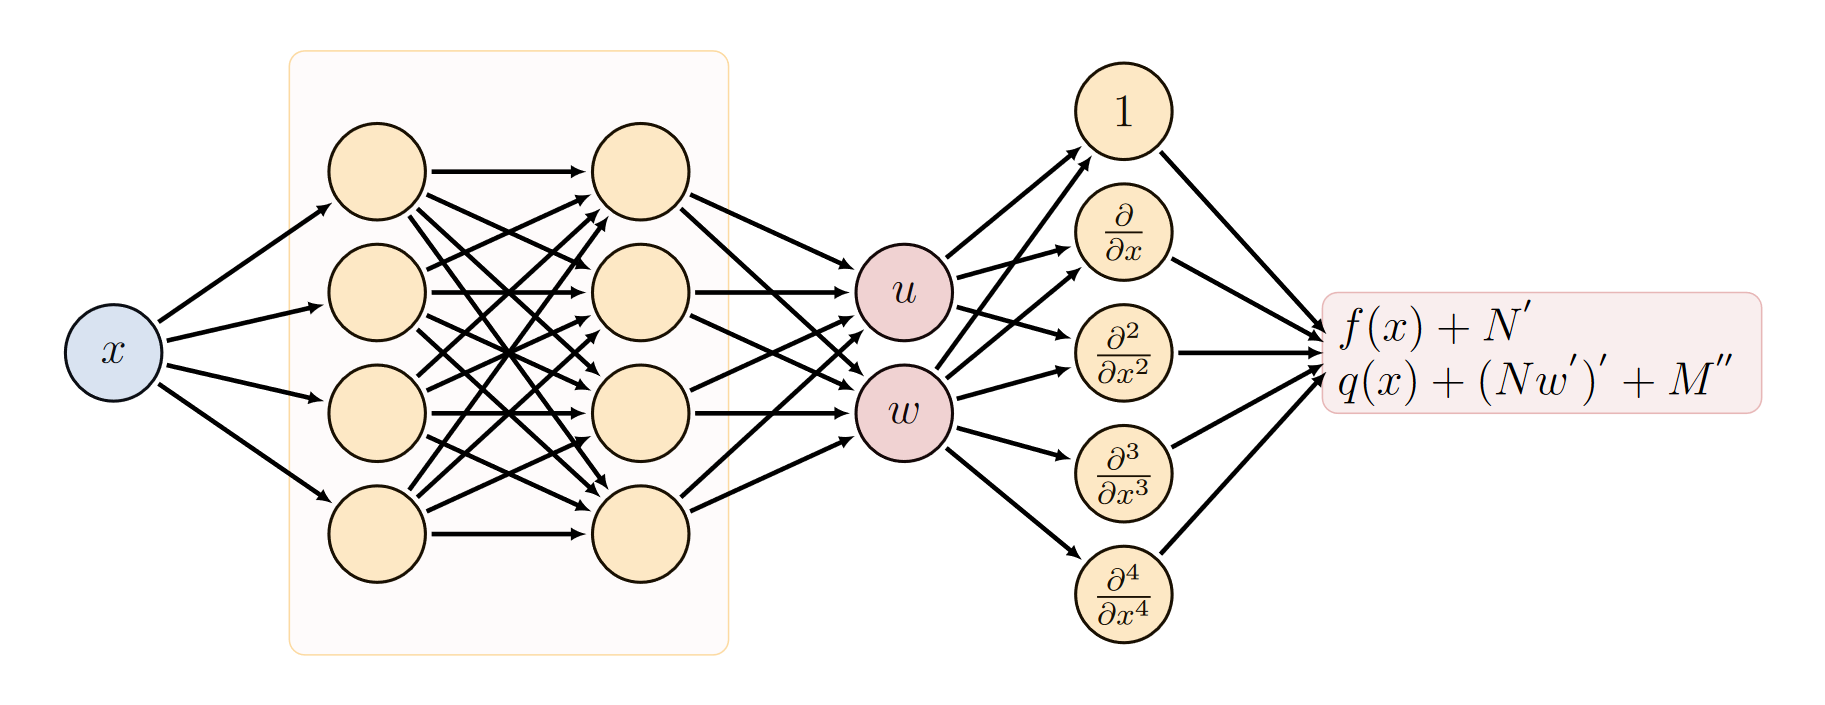
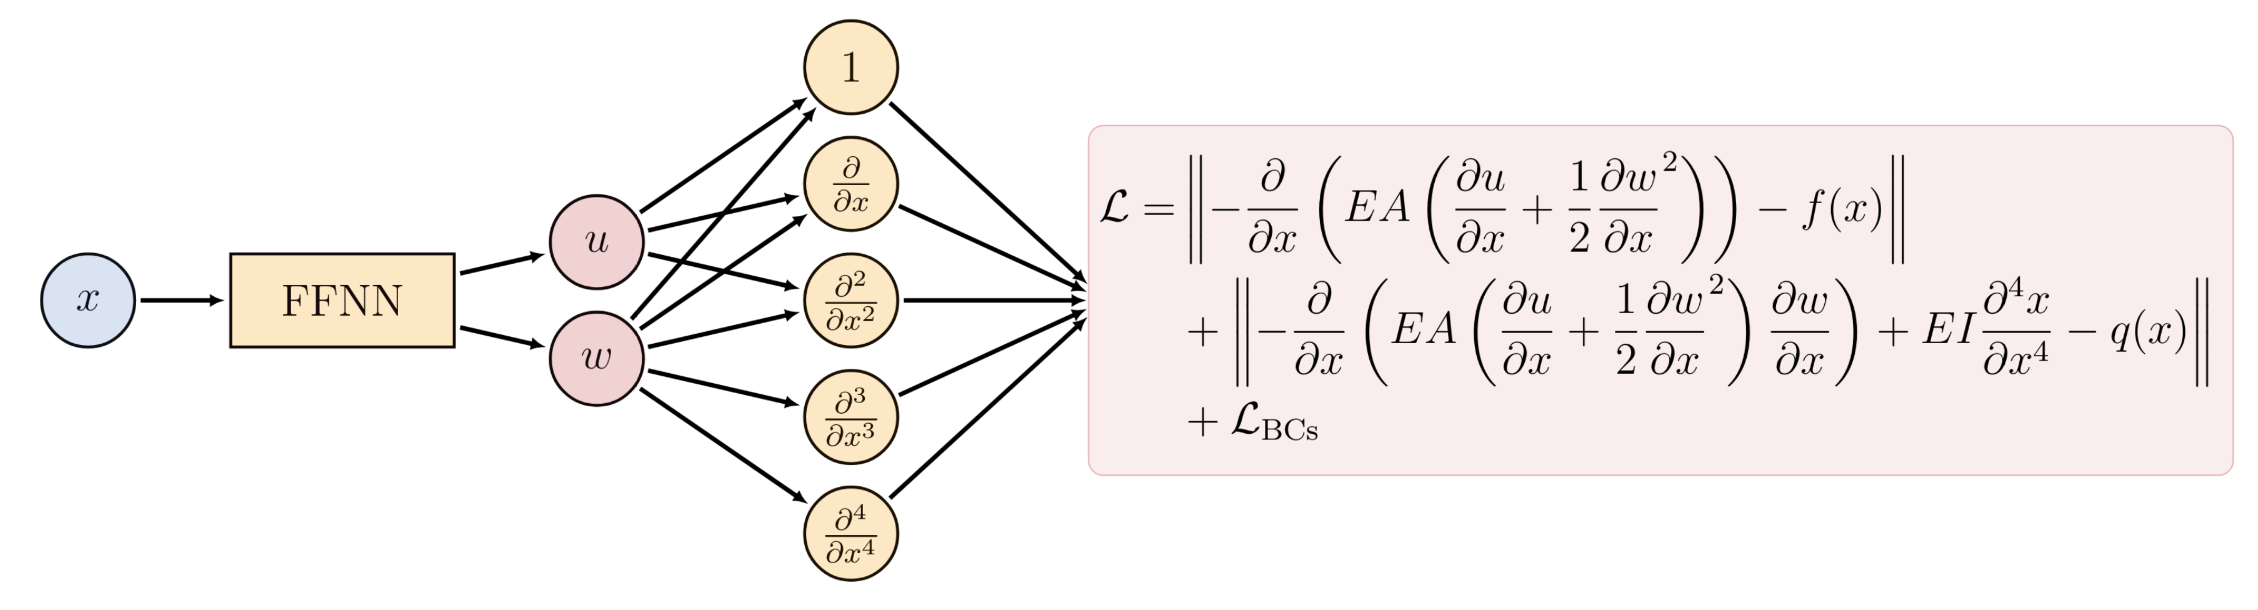
Corrected mixed formulation and udpated figures accordingly

Changed region(s): [[0.0, 0.0311, 0.9995, 0.9656], [0.1249, 0.623, 0.1562, 0.6541], [0.1249, 0.3426, 0.1562, 0.3738]]

diff --git a/PINNs/paml_pinns/nlebb/models.py b/PINNs/paml_pinns/nlebb/models.py
@@ -12,7 +12,7 @@ class PINN(eqx.Module):
     """A PINN for the nonlinear Euler-Bernoulli beam."""
 
     nn: eqx.Module
-    params: dict[float]
+    params: dict[str, float]
     u_bc_coords: px.NonTrainable | None
     u_bc_values: px.NonTrainable | None
     w_bc_coords: px.NonTrainable | None
@@ -28,7 +28,7 @@ class PINN(eqx.Module):
 
     def __init__(
         self,
-        params: dict[float],
+        params: dict[str, float],
         bc: dict[str, Array | None],
         *,
         key: PRNGKeyArray,
@@ -78,7 +78,7 @@ class PINN(eqx.Module):
             self.Q_bc_coords = px.NonTrainable(bc["Q_bc_coords"])
             self.Q_bc_values = px.NonTrainable(bc["Q_bc_values"])
 
-    def __call__(self, x: Array) -> Array:
+    def __call__(self, x: Array) -> Tuple[Array, ...]:
         u = self.u(x)
         w = self.w(x)
         w_x = self.w_x(x)
@@ -210,17 +210,17 @@ class MixedPINN(eqx.Module):
 
     nn_u: eqx.Module
     nn_w: eqx.Module
-    nn_w_x: eqx.Module
+    nn_t: eqx.Module
     nn_N: eqx.Module
     nn_M: eqx.Module
     nn_Q: eqx.Module
-    params: dict[float]
+    params: dict[str, float]
     u_bc_coords: px.NonTrainable | None
     u_bc_values: px.NonTrainable | None
     w_bc_coords: px.NonTrainable | None
     w_bc_values: px.NonTrainable | None
-    w_x_bc_coords: px.NonTrainable | None
-    w_x_bc_values: px.NonTrainable | None
+    t_bc_coords: px.NonTrainable | None
+    t_bc_values: px.NonTrainable | None
     N_bc_coords: px.NonTrainable | None
     N_bc_values: px.NonTrainable | None
     M_bc_coords: px.NonTrainable | None
@@ -230,14 +230,14 @@ class MixedPINN(eqx.Module):
 
     def __init__(
         self,
-        params: dict[float],
+        params: dict[str, float],
         bc: dict[str, Array | None],
         *,
         key: PRNGKeyArray,
     ):
         self.nn_u = eqx.nn.MLP("scalar", "scalar", 8, 1, jax.nn.tanh, key=key)
         self.nn_w = eqx.nn.MLP("scalar", "scalar", 8, 1, jax.nn.tanh, key=key)
-        self.nn_w_x = eqx.nn.MLP("scalar", "scalar", 8, 1, jax.nn.tanh, key=key)
+        self.nn_t = eqx.nn.MLP("scalar", "scalar", 8, 1, jax.nn.tanh, key=key)
         self.nn_N = eqx.nn.MLP("scalar", "scalar", 8, 1, jax.nn.tanh, key=key)
         self.nn_M = eqx.nn.MLP("scalar", "scalar", 8, 1, jax.nn.tanh, key=key)
         self.nn_Q = eqx.nn.MLP("scalar", "scalar", 8, 1, jax.nn.tanh, key=key)
@@ -258,11 +258,11 @@ class MixedPINN(eqx.Module):
             self.w_bc_values = px.NonTrainable(bc["w_bc_values"])
 
         if bc["w_x_bc_coords"] is None:
-            self.w_x_bc_coords = None
-            self.w_x_bc_values = None
+            self.t_bc_coords = None
+            self.t_bc_values = None
         else:
-            self.w_x_bc_coords = px.NonTrainable(bc["w_x_bc_coords"])
-            self.w_x_bc_values = px.NonTrainable(bc["w_x_bc_values"])
+            self.t_bc_coords = px.NonTrainable(bc["w_x_bc_coords"])
+            self.t_bc_values = px.NonTrainable(bc["w_x_bc_values"])
 
         if bc["N_bc_coords"] is None:
             self.N_bc_coords = None
@@ -285,25 +285,25 @@ class MixedPINN(eqx.Module):
             self.Q_bc_coords = px.NonTrainable(bc["Q_bc_coords"])
             self.Q_bc_values = px.NonTrainable(bc["Q_bc_values"])
 
-    def __call__(self, x: Array) -> Array:
+    def __call__(self, x: Array) -> Tuple[Array, ...]:
         u = self.u(x)
         w = self.w(x)
-        w_x = self.w_x(x)
+        t = self.t(x)
         N = self.N(x)
         M = self.M(x)
         Q = self.Q(x)
 
-        return u, w, w_x, N, M, Q
+        return u, w, t, N, M, Q
 
     def forward(self, x: Array) -> Tuple[Array, ...]:
         x = x / self.params["L"]
         u = self.nn_u(x)
         w = self.nn_w(x)
-        w_x = self.nn_w_x(x)
+        t = self.nn_t(x)
         N = self.nn_N(x)
         M = self.nn_M(x)
         Q = self.nn_Q(x)
-        return u, w, w_x, N, M, Q
+        return u, w, t, N, M, Q
 
     def u(self, x: Array) -> Array:
         u, _, _, _, _, _ = self.forward(x)
@@ -316,12 +316,12 @@ class MixedPINN(eqx.Module):
         _, w, _, _, _, _ = self.forward(x)
         return w
 
-    def w_x(self, x: Array) -> Array:
-        _, _, w_x, _, _, _ = self.forward(x)
-        return w_x
+    def t(self, x: Array) -> Array:
+        _, _, t, _, _, _ = self.forward(x)
+        return t
 
-    def w_xx(self, x: Array) -> Array:
-        return jax.grad(self.w_x)(x)
+    def t_x(self, x: Array) -> Array:
+        return jax.grad(self.t)(x)
 
     def N(self, x: Array) -> Array:
         _, _, _, N, _, _ = self.forward(x)
@@ -330,12 +330,6 @@ class MixedPINN(eqx.Module):
     def N_x(self, x: Array) -> Array:
         return jax.grad(self.N)(x)
 
-    def Nw_x(self, x: Array) -> Array:
-        return self.N(x) * self.w_x(x)
-
-    def Nw_x_x(self, x: Array) -> Array:
-        return jax.grad(self.Nw_x)(x)
-
     def M(self, x: Array) -> Array:
         _, _, _, _, M, _ = self.forward(x)
         return M
@@ -343,27 +337,28 @@ class MixedPINN(eqx.Module):
     def M_x(self, x: Array) -> Array:
         return jax.grad(self.M)(x)
 
-    def M_xx(self, x: Array) -> Array:
-        return jax.grad(self.M_x)(x)
-
     def Q(self, x: Array) -> Array:
         _, _, _, _, _, Q = self.forward(x)
         return Q
 
+    def Q_x(self, x: Array) -> Array:
+        return jax.grad(self.Q)(x)
+
     def res(self, x: Array):
-        N = self.params["EA"] * (self.u_x(x) + 0.5 * self.w_x(x) ** 2)
-        M = -self.params["EI"] * self.w_xx(x)
-        Q = self.M_x(x) + self.N(x) * self.w_x(x)
+        N = self.params["EA"] * (self.u_x(x) + 0.5 * self.t(x) ** 2)
+        M = -self.params["EI"] * self.t_x(x)
+        Q = self.M_x(x) + self.N(x) * self.t(x)
+        w_x = jax.grad(self.w)(x)
 
         # Residuals assuming constant line loads
         ru = -self.N_x(x) - self.params["f0"]
-        rw = -self.Nw_x_x(x) - self.M_xx(x) - self.params["q0"]
-        rw_x = self.w_x(x) - jax.grad(self.w)(x)
+        rw = -self.Q_x(x) - self.params["q0"]
+        rt = w_x - self.t(x)
         rN = N - self.N(x)
         rM = M - self.M(x)
         rQ = Q - self.Q(x)
 
-        return ru, rw, rw_x, rN, rM, rQ
+        return ru, rw, rt, rN, rM, rQ
 
     def losses(self, x):
         if self.u_bc_coords is None:
@@ -378,11 +373,11 @@ class MixedPINN(eqx.Module):
             w_bc_pred = jax.vmap(self.w)(self.w_bc_coords)
             w_bc_loss = jnp.mean((w_bc_pred - self.w_bc_values) ** 2)
 
-        if self.w_x_bc_coords is None:
-            w_x_bc_loss = jnp.array(0.0)
+        if self.t_bc_coords is None:
+            t_bc_loss = jnp.array(0.0)
         else:
-            w_x_bc_pred = jax.vmap(self.w_x)(self.w_x_bc_coords)
-            w_x_bc_loss = jnp.mean((w_x_bc_pred - self.w_x_bc_values) ** 2)
+            t_bc_pred = jax.vmap(self.t)(self.t_bc_coords)
+            t_bc_loss = jnp.mean((t_bc_pred - self.t_bc_values) ** 2)
 
         if self.N_bc_coords is None:
             N_bc_loss = jnp.array(0.0)
@@ -405,7 +400,7 @@ class MixedPINN(eqx.Module):
         r_pred = jax.vmap(self.res)(x)
         ru_loss = jnp.mean(r_pred[0] ** 2)
         rw_loss = jnp.mean(r_pred[1] ** 2)
-        rw_x_loss = jnp.mean(r_pred[2] ** 2)
+        rt_loss = jnp.mean(r_pred[2] ** 2)
         rN_loss = jnp.mean(r_pred[3] ** 2)
         rM_loss = jnp.mean(r_pred[4] ** 2)
         rQ_loss = jnp.mean(r_pred[5] ** 2)
@@ -413,7 +408,7 @@ class MixedPINN(eqx.Module):
         loss_dict = {
             "u": ru_loss + u_bc_loss,
             "w": rw_loss + w_bc_loss,
-            "w_x": rw_x_loss + w_x_bc_loss,
+            "w_x": rt_loss + t_bc_loss,
             "N": rN_loss + N_bc_loss,
             "M": rM_loss + M_bc_loss,
             "Q": rQ_loss + Q_bc_loss,

diff --git a/PINNs/paml_pinns/lebb/models.py b/PINNs/paml_pinns/lebb/models.py
@@ -28,7 +28,7 @@ class PINN(eqx.Module):
         EI: float,
         L: float,
         q: float,
-        bc: dict[str, Array | None],
+        bc: dict[str, Array],
         *,
         key: PRNGKeyArray,
     ):
